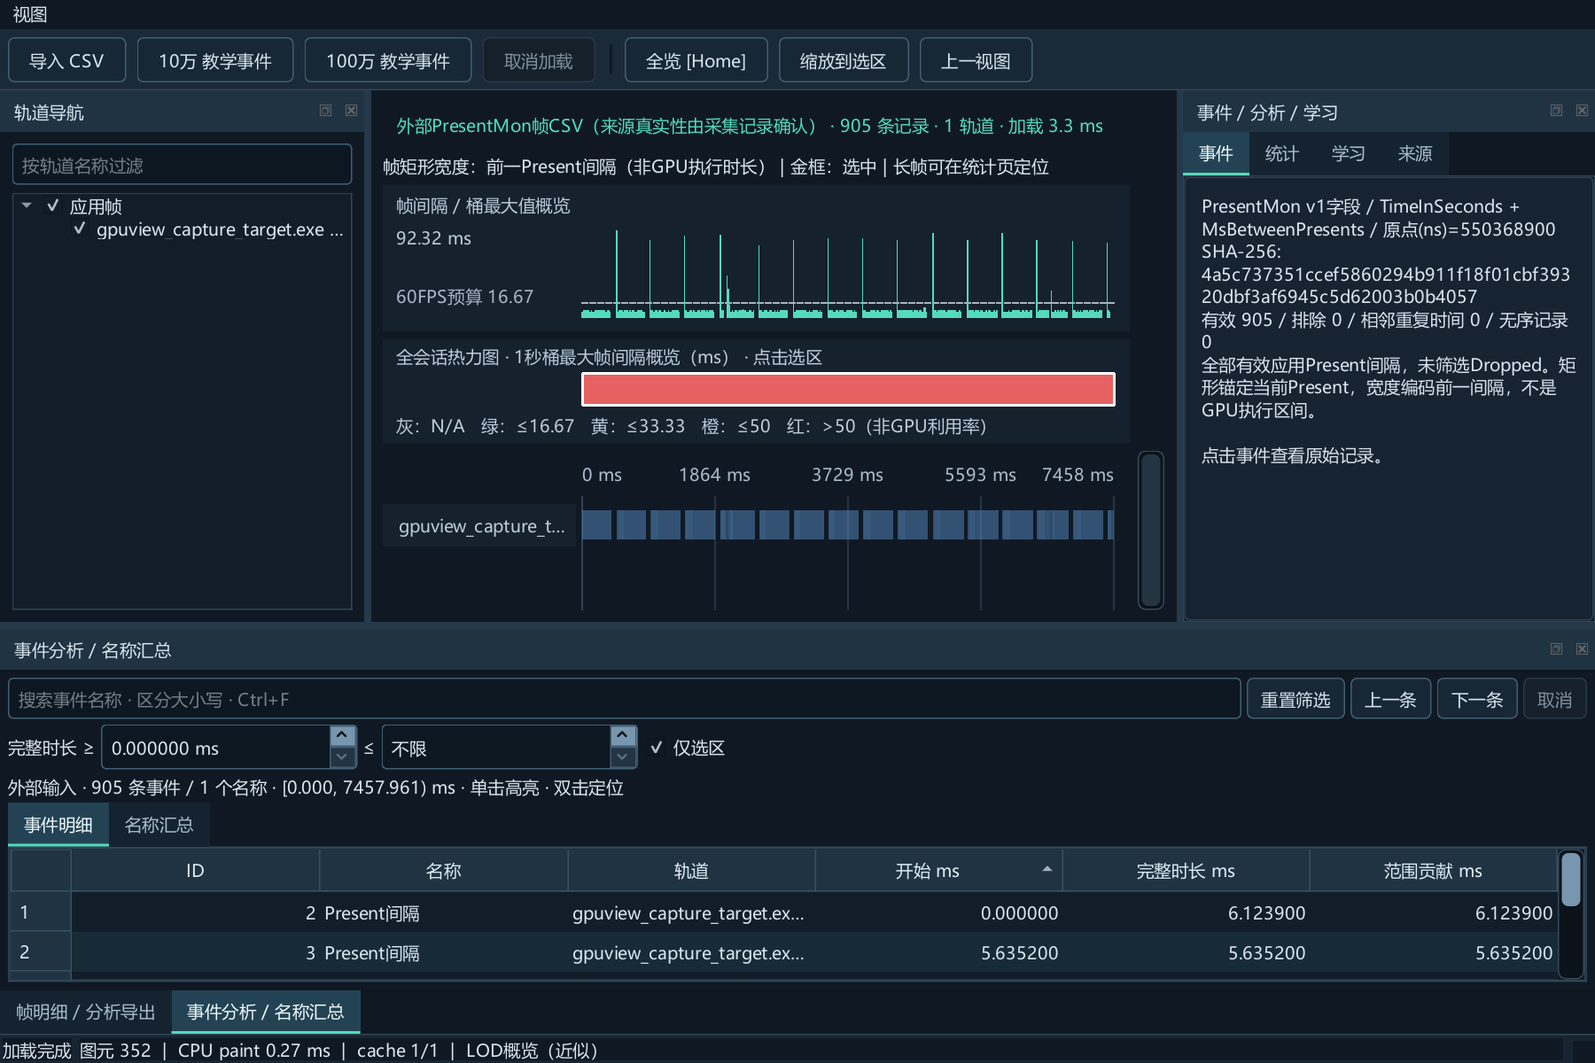
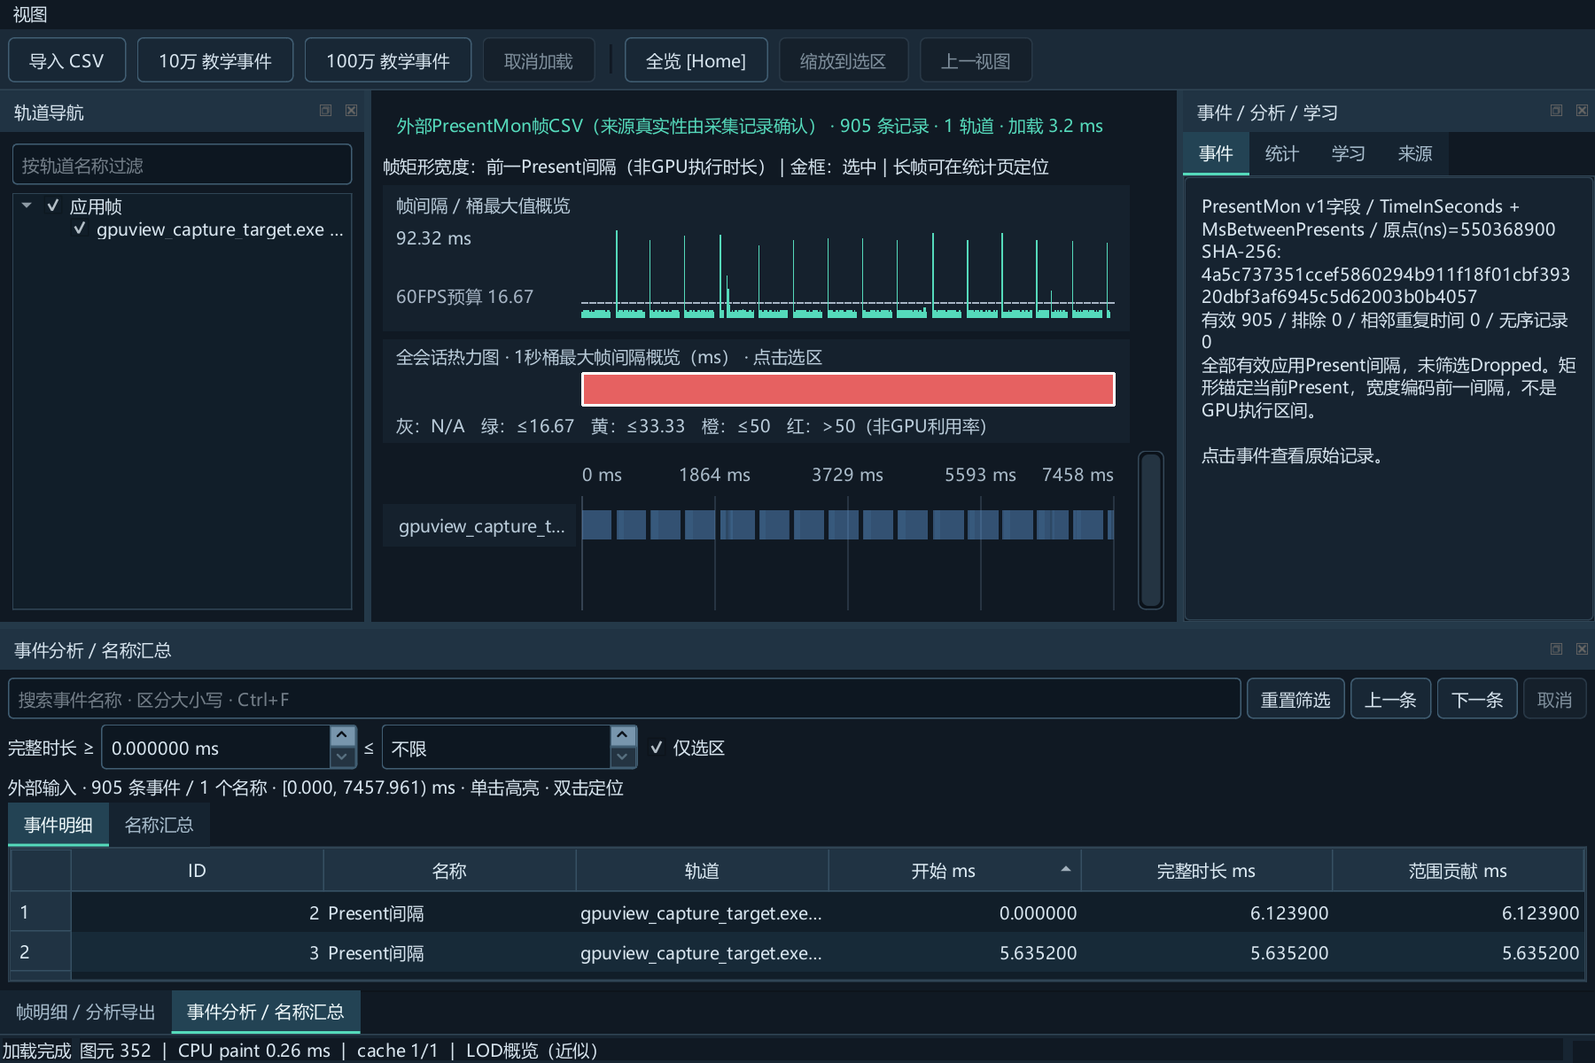
Record effective viewport changes and synchronize navigation actions

diff --git a/src/ui_widgets/timeline_widget.cpp b/src/ui_widgets/timeline_widget.cpp
@@ -23,17 +23,31 @@ void TimelineWidget::setSnapshot(Snapshot snapshot) {
     snapshot_ = std::move(snapshot);
     firstTrack_ = 0;
     selection_.reset(); selectedEvent_.reset(); history_.clear();
+    selecting_=panning_=panHistorySaved_=false; hover_={-1,-1};
     tracks_.clear();
     if (snapshot_) for (std::uint32_t i = 0; i < snapshot_->tracks.size(); ++i) tracks_.push_back(i);
     cache_.clear();
     syncTrackScroll(0);
-    resetViewport(); history_.clear();
+    // 换会话直接建立初始视口，不经过“记住上一视图”的用户导航路径。
+    if(snapshot_) { viewport_.reset(snapshot_->bounds); emit viewportChanged(viewport_.range().begin,viewport_.range().end); }
+    emit selectionCleared(); publishNavigation(); update();
 }
 /// 保存时间视口，重复范围不追加；最多64项避免历史无界增长。
-void TimelineWidget::rememberView() {
-    if (!history_.empty() && history_.back() == viewport_.range()) return;
+void TimelineWidget::rememberView(TimeRange previous) {
+    if (!history_.empty() && history_.back() == previous) return;
     if (history_.size() == 64) history_.erase(history_.begin());
-    history_.push_back(viewport_.range());
+    history_.push_back(previous);
+}
+/// 用相同视口夹紧规则判断缩放是否有效，不让工具栏对无效操作保持可点击。
+void TimelineWidget::publishNavigation() {
+    auto target=viewport_;
+    if(selection_) target.show(*selection_);
+    emit navigationChanged(bool(snapshot_),!history_.empty(),snapshot_ && selection_ && !(target.range()==viewport_.range()));
+}
+/// 鼠标释放和Esc使用同一收尾，避免拖回起点后按Esc仍留下空返回步骤。
+void TimelineWidget::finishPanGesture() {
+    if(panning_ && panHistorySaved_ && !history_.empty() && history_.back()==viewport_.range()) history_.pop_back();
+    panning_=panHistorySaved_=false;
 }
 /// 替换可见轨道ID映射并使缓存失效；过滤后行号不等于源轨道ID。
 void TimelineWidget::setTracks(std::vector<std::uint32_t> tracks) {
@@ -41,19 +55,21 @@ void TimelineWidget::setTracks(std::vector<std::uint32_t> tracks) {
     if (snapshot_) for (auto id : tracks) if (id < snapshot_->tracks.size() && std::find(tracks_.begin(), tracks_.end(), id) == tracks_.end()) tracks_.push_back(id);
     cache_.clear();
     selectedEvent_.reset(); selection_.reset(); emit selectionCleared();
-    syncTrackScroll(0); update();
+    syncTrackScroll(0); publishNavigation(); update();
 }
 /// 保存旧视图后显示指定范围，发布viewportChanged同步曲线。
 void TimelineWidget::showRange(TimeRange range) {
     if (!snapshot_) return;
-    rememberView(); viewport_.show(range); emit viewportChanged(viewport_.range().begin, viewport_.range().end); update();
+    const auto previous=viewport_.range(); viewport_.show(range);
+    if(previous==viewport_.range()) return;
+    rememberView(previous); emit viewportChanged(viewport_.range().begin, viewport_.range().end); publishNavigation(); update();
 }
 /// 存在有效框选时缩放至选区，通过showRange保存返回视图。
 void TimelineWidget::zoomSelection() { if (selection_) showRange(*selection_); }
 /// 恢复最近保存的时间视口；没有历史时保持当前范围。
 void TimelineWidget::previousView() {
     if (history_.empty()) return;
-    viewport_.show(history_.back()); history_.pop_back(); emit viewportChanged(viewport_.range().begin, viewport_.range().end); update();
+    viewport_.show(history_.back()); history_.pop_back(); emit viewportChanged(viewport_.range().begin, viewport_.range().end); publishNavigation(); update();
 }
 /// 高亮事件、滚到对应轨道并发布详情；不改变时间缩放。
 void TimelineWidget::selectEvent(const Event& event) {
@@ -70,7 +86,7 @@ void TimelineWidget::selectEvent(const Event& event) {
 void TimelineWidget::selectRange(TimeRange range) {
     if(!snapshot_ || range.end<=range.begin) return;
     selectedEvent_.reset(); selection_=range;
-    showRange(range); emit rangeSelected(range.begin,range.end); update();
+    showRange(range); emit rangeSelected(range.begin,range.end); publishNavigation(); update();
 }
 /// 选中事件并缩放到其附近，供明细激活和最长事件导航。
 void TimelineWidget::focusEvent(const Event& event) {
@@ -89,10 +105,13 @@ int TimelineWidget::trackAt(int y) const {
 void TimelineWidget::leaveEvent(QEvent* event) { hover_ = {-1, -1}; update(); QWidget::leaveEvent(event); }
 /// 恢复全会话并清除选择，发布范围变化同步其他图表和统计。
 void TimelineWidget::resetViewport() {
-    rememberView();
-    if (snapshot_) { viewport_.reset(snapshot_->bounds); emit viewportChanged(viewport_.range().begin, viewport_.range().end); }
+    if (snapshot_) {
+        const auto previous=viewport_.range(); viewport_.reset(snapshot_->bounds);
+        if(!(previous==viewport_.range())) rememberView(previous);
+        emit viewportChanged(viewport_.range().begin, viewport_.range().end);
+    }
     selection_.reset(); selectedEvent_.reset(); emit selectionCleared();
-    update();
+    publishNavigation(); update();
 }
 /// 设置过滤后列表的首个可见行，内部夹紧滚动范围并重绘。
 void TimelineWidget::setFirstTrack(int track) {
@@ -205,11 +224,13 @@ void TimelineWidget::wheelEvent(QWheelEvent* event) {
     if (event->position().x() < gutter) {
         setFirstTrack(int(firstTrack_) - event->angleDelta().y() / 120 * 3); event->accept(); return;
     }
-    rememberView();
+    const auto previous=viewport_.range();
     const double anchor = (event->position().x() - gutter) / std::max(1, width() - gutter - 12);
     viewport_.zoom(std::pow(1.25, event->angleDelta().y() / 120.0), anchor);
+    if(previous==viewport_.range()) { event->accept(); return; }
+    rememberView(previous);
     emit viewportChanged(viewport_.range().begin, viewport_.range().end);
-    update();
+    publishNavigation(); update();
     event->accept();
 }
 /// 根据按键和命中开始选择/平移或发布事件；输入坐标为逻辑像素。
@@ -218,9 +239,9 @@ void TimelineWidget::mousePressEvent(QMouseEvent* event) {
     setFocus();
     press_ = previous_ = event->position().toPoint();
     panning_ = event->button() == Qt::MiddleButton;
-    if (panning_) rememberView();
+    panHistorySaved_=false;
     selecting_ = event->button() == Qt::LeftButton;
-    if (selecting_) { selection_.reset(); selectedEvent_.reset(); emit selectionCleared(); }
+    if (selecting_) { selection_.reset(); selectedEvent_.reset(); emit selectionCleared(); publishNavigation(); }
 }
 /// 拖动时更新交互，空闲时更新悬停；不改写源事件。
 void TimelineWidget::mouseMoveEvent(QMouseEvent* event) {
@@ -239,9 +260,11 @@ void TimelineWidget::mouseMoveEvent(QMouseEvent* event) {
         update();
     }
     if (panning_) {
+        const auto before=viewport_.range();
         viewport_.pan(double(previous_.x() - point.x()) / std::max(1, width() - gutter - 12));
+        if(!panHistorySaved_ && !(before==viewport_.range())) { rememberView(before); panHistorySaved_=true; }
         emit viewportChanged(viewport_.range().begin, viewport_.range().end);
-        previous_ = point;
+        previous_ = point; publishNavigation();
         update();
     } else if (selecting_) {
         const auto a = timeAt(press_.x()), b = timeAt(point.x());
@@ -259,8 +282,8 @@ void TimelineWidget::mouseReleaseEvent(QMouseEvent* event) {
         } else if (selection_ && selection_->end > selection_->begin)
             emit rangeSelected(selection_->begin, selection_->end);
     }
-    panning_ = selecting_ = false;
-    update();
+    finishPanGesture(); selecting_=false;
+    publishNavigation(); update();
 }
 /// 按点击时间和轨道查询原始事件，不把LOD聚合图元当作事件身份。
 void TimelineWidget::pick(const QPoint& point) {
@@ -287,7 +310,7 @@ void TimelineWidget::publishEvent(const Event& e) {
 /// 处理Home全览和Esc清除，其余按键交给QWidget。
 void TimelineWidget::keyPressEvent(QKeyEvent* event) {
     if (event->key() == Qt::Key_Home) resetViewport();
-    else if (event->key() == Qt::Key_Escape) { selection_.reset(); selectedEvent_.reset(); selecting_ = panning_ = false; emit selectionCleared(); update(); }
+    else if (event->key() == Qt::Key_Escape) { finishPanGesture(); selection_.reset(); selectedEvent_.reset(); selecting_=false; emit selectionCleared(); publishNavigation(); update(); }
     else QWidget::keyPressEvent(event);
 }
 }

diff --git a/tests/ui/ui_tests.cpp b/tests/ui/ui_tests.cpp
@@ -36,6 +36,49 @@ class UiTests : public QObject {
 private slots:
     /// 使用实际应用的中文字体和样式，避免默认测试字体掩盖窗口最小尺寸问题。
     void initTestCase() { configureApplicationTheme(*qApp); }
+    /// 导航动作只反映实际可执行操作；全览边界、重复范围和中键点击不制造虚假返回历史。
+    void navigationActionsFollowEffectiveChanges() {
+        MainWindow window; window.show();
+        auto* overview=window.findChild<QAction*>("overviewAction");
+        auto* back=window.findChild<QAction*>("previousViewAction");
+        auto* zoom=window.findChild<QAction*>("zoomSelectionAction");
+        QVERIFY(!overview->isEnabled()); QVERIFY(!back->isEnabled()); QVERIFY(!zoom->isEnabled());
+        window.controller()->requestSynthetic(10000); QTRY_VERIFY_WITH_TIMEOUT(overview->isEnabled(),5000);
+        auto* timeline=window.timeline(); const auto full=timeline->visibleRange();
+        timeline->showRange(full); timeline->resetViewport(); timeline->resetViewport();
+        QTest::mouseClick(timeline,Qt::MiddleButton,Qt::NoModifier,QPoint(400,70));
+        QWheelEvent outward(QPointF(400,70),QPointF(400,70),QPoint(),QPoint(0,-120),Qt::NoButton,Qt::NoModifier,Qt::NoScrollPhase,false);
+        QApplication::sendEvent(timeline,&outward); QVERIFY(!back->isEnabled());
+        const TimeRange selected{full.end/4,full.end/2}; timeline->selectRange(selected);
+        QVERIFY(back->isEnabled()); QVERIFY(!zoom->isEnabled());
+        back->trigger(); QVERIFY(timeline->visibleRange()==full); QVERIFY(!back->isEnabled()); QVERIFY(zoom->isEnabled());
+        zoom->trigger(); timeline->zoomSelection(); back->trigger();
+        QVERIFY(timeline->visibleRange()==full); QVERIFY(!back->isEnabled());
+        QTest::keyClick(timeline,Qt::Key_Escape); QVERIFY(!zoom->isEnabled());
+    }
+    /// 多次移动的一次平移只占一条历史，拖回原点和换数据后的旧鼠标释放不污染导航。
+    void panGestureHistoryAndSnapshotReset() {
+        TimelineWidget timeline; timeline.resize(1000,360); timeline.show();
+        auto source=generateTrace(10000,1); timeline.setSnapshot(source);
+        const auto full=timeline.visibleRange(); timeline.showRange({full.end/4,full.end/2});
+        const auto before=timeline.visibleRange();
+        QTest::mousePress(&timeline,Qt::MiddleButton,Qt::NoModifier,QPoint(500,70));
+        QTest::mouseMove(&timeline,QPoint(480,70)); QTest::mouseMove(&timeline,QPoint(460,70));
+        QTest::mouseRelease(&timeline,Qt::MiddleButton,Qt::NoModifier,QPoint(460,70));
+        QVERIFY(!(timeline.visibleRange()==before)); timeline.previousView(); QVERIFY(timeline.visibleRange()==before);
+        QTest::mousePress(&timeline,Qt::MiddleButton,Qt::NoModifier,QPoint(500,70));
+        QTest::mouseMove(&timeline,QPoint(480,70)); QTest::mouseMove(&timeline,QPoint(500,70));
+        QTest::keyClick(&timeline,Qt::Key_Escape);
+        QTest::mouseRelease(&timeline,Qt::MiddleButton,Qt::NoModifier,QPoint(500,70));
+        timeline.previousView(); QVERIFY(timeline.visibleRange()==full);
+        QSignalSpy selected(&timeline,&TimelineWidget::rangeSelected);
+        QSignalSpy navigation(&timeline,&TimelineWidget::navigationChanged);
+        QTest::mousePress(&timeline,Qt::LeftButton,Qt::NoModifier,QPoint(400,70));
+        timeline.setSnapshot(generateTrace(10000,2));
+        QTest::mouseMove(&timeline,QPoint(600,70)); QTest::mouseRelease(&timeline,Qt::LeftButton,Qt::NoModifier,QPoint(600,70));
+        QCOMPARE(selected.count(),0);
+        for(const auto& state:navigation) QVERIFY(!state.at(1).toBool());
+    }
     /// 较矮统计区域无需滚动即可看到P99；空结果不能保留上次的有效值，Trace不能冒充FPS。
     void compactStatisticsPrioritizeMetricsAndClearEmptyValues() {
         Statistics stats; stats.count=905; stats.meanMs=8.192; stats.p95Ms=7.735; stats.p99Ms=82.945;

diff --git a/src/ui_widgets/main_window.cpp b/src/ui_widgets/main_window.cpp
@@ -46,11 +46,13 @@ MainWindow::MainWindow(QWidget* parent) : QMainWindow(parent) {
     auto* cancel = toolbar->addAction(QStringLiteral("取消加载"), &controller_, &SessionController::cancel); cancel->setEnabled(false);
     toolbar->addSeparator();
     // 复用时间轴统一全览入口，保持按钮与Home按键行为一致。
-    toolbar->addAction(QStringLiteral("全览 [Home]"), this, [this] { timeline_->resetViewport(); });
+    auto* overviewAction=toolbar->addAction(QStringLiteral("全览 [Home]"), this, [this] { timeline_->resetViewport(); });
     // 缩放已有选择，不另建一套范围计算逻辑。
-    toolbar->addAction(QStringLiteral("缩放到选区"), this, [this] { timeline_->zoomSelection(); });
+    auto* zoomAction=toolbar->addAction(QStringLiteral("缩放到选区"), this, [this] { timeline_->zoomSelection(); });
     // 调用有限视图历史，恢复上一次时间范围。
-    toolbar->addAction(QStringLiteral("上一视图"), this, [this] { timeline_->previousView(); });
+    auto* backAction=toolbar->addAction(QStringLiteral("上一视图"), this, [this] { timeline_->previousView(); });
+    overviewAction->setObjectName("overviewAction"); zoomAction->setObjectName("zoomSelectionAction"); backAction->setObjectName("previousViewAction");
+    overviewAction->setEnabled(false); zoomAction->setEnabled(false); backAction->setEnabled(false);
     auto* progress = new QProgressBar; progress->setObjectName("loadProgress"); progress->setMaximumWidth(100);
     progress->setRange(0,100); progress->setValue(0); auto* progressAction=toolbar->addWidget(progress); progressAction->setVisible(false);
     auto* central = new QWidget; auto* layout = new QVBoxLayout(central);
@@ -63,6 +65,10 @@ MainWindow::MainWindow(QWidget* parent) : QMainWindow(parent) {
     auto* plotsLayout = new QGridLayout; plotsLayout->addWidget(frameChart,0,0);
     auto* heatmap = new FrameHeatmap; heatmap->hide(); plotsLayout->addWidget(heatmap,1,0);
     timeline_ = new TimelineWidget;
+    // 按真实导航状态启用动作，加载/边界缩放/重复全览不会伪造一条返回历史。
+    connect(timeline_,&TimelineWidget::navigationChanged,this,[overviewAction,zoomAction,backAction](bool loaded,bool back,bool zoom) {
+        overviewAction->setEnabled(loaded); backAction->setEnabled(back); zoomAction->setEnabled(zoom);
+    });
     // 将热力图选择的纳秒范围交给时间轴，统一驱动选区和统计联动。
     connect(heatmap,&FrameHeatmap::rangePicked,this,[this](qint64 a,qint64 b) { timeline_->selectRange({a,b}); });
     // 只同步帧曲线视口，不重复解析数据。

diff --git a/src/ui_widgets/timeline_widget.h b/src/ui_widgets/timeline_widget.h
@@ -56,6 +56,8 @@ signals:
     void selectionCleared();
     /// 发布首行、最大首行和页步长，使外部滚动条与可见轨道一致。
     void trackScrollChanged(int firstTrack, int maximum, int pageStep);
+    /// 实际导航状态，供工具栏同步可用性；不以鼠标是否按下推测历史是否存在。
+    void navigationChanged(bool hasData,bool canGoBack,bool canZoomSelection);
 protected:
     /// 清除悬停并调用基类，避免鼠标离开后残留高亮。
     void leaveEvent(QEvent*) override;
@@ -81,7 +83,11 @@ private:
     /// 把源事件与来源语义转为详情并发布，避免误把帧宽度当Kernel时长。
     void publishEvent(const Event& event);
     /// 保存时间视口，重复范围不追加；最多64项避免历史无界增长。
-    void rememberView();
+    void rememberView(TimeRange previous);
+    /// 在交互完成状态变更后发布导航能力，选区已等于视口时禁用重复缩放。
+    void publishNavigation();
+    /// 结束平移手势，若回到起点则撤掉本手势产生的无效历史；不撤销有效位移。
+    void finishPanGesture();
     /// 把纵坐标映射为源轨道ID；超出绘图区或显示映射返回-1。
     int trackAt(int y) const;
     /// 以gutter为原点把横坐标映射为视口内纳秒时刻。
@@ -118,6 +124,8 @@ private:
     QPoint previous_;
     /// 是否正用中键拖动平移时间轴。
     bool panning_ = false;
+    /// 一次中键拖动只在首次实际位移时保存历史，点击或边界无效拖动不产生记录。
+    bool panHistorySaved_ = false;
     /// 是否正用左键拖动选择时间范围。
     bool selecting_ = false;
     /// 用户框选的半开纳秒范围，与单事件选择分开保存。

diff --git a/docs/07-interview/UI_REFINEMENT.md b/docs/07-interview/UI_REFINEMENT.md
@@ -81,3 +81,17 @@
 验证：compactStatisticsPrioritizeMetricsAndClearEmptyValues使用实际字体和290×120区域，以QTextBrowser.cursorRect验证P99数值完整落在初始视口；检查空状态和Trace不显示FPS。真实905帧导入用例进一步过滤全部轨道，确认列表清空、定位禁用，再恢复轨道验证P99和定位恢复。Debug/Release共65个实际用例通过，帧分析截图已更新检查。
 
 取舍：富文本只描述固定数量指标，不为每个事件创建控件；与Qt Quick学习阶段可以对照排版方式。这里改善的是信息查找成本，没有声称计算提速；更大的系统字体和完整屏幕阅读器体验仍需另行验证。
+
+## 第七轮：有效导航历史和工具栏状态
+
+面试问题：为什么点击“上一视图”偶尔看起来什么都没发生？鼠标事件到了就该记一条历史吗？
+
+复现：全览时再向外缩放，或不移动地按一下中键，以前会先记住当前范围。随后返回的是同一个范围。工具栏也没有反映是否存在历史、是否已有有效选区。
+
+解决思路：[TimelineWidget](../../src/ui_widgets/timeline_widget.cpp)先通过TimeViewport夹紧请求范围，再比较实际结果；只有发生变化才保存旧范围，重复showRange与边界滚轮不追加历史。平移在首次实际位移记录一次，回到起点后释放或按Esc由finishPanGesture移除无效记录。历史继续限定64项，一次拖动不是每次mouseMove都记录。
+
+navigationChanged只描述真实导航能力，[MainWindow](../../src/ui_widgets/main_window.cpp)据此更新三个动作：无数据不能全览、无历史不能返回、选区已经等于视口时无需重复缩放。换快照直接建立初始视口，清理历史和拖动状态，不把旧会话视口短暂发布成可返回状态。
+
+验证：navigationActionsFollowEffectiveChanges覆盖初始禁用、重复全览/相同范围、中键点击、边界缩放、选区缩放及返回；panGestureHistoryAndSnapshotReset覆盖多次移动只返回一次、拖回原点后Esc、按住鼠标换数据后迟到释放。Debug/Release共67个实际用例通过。
+
+边界：历史仅保存时间视口，不是完整会话撤销栈，不恢复轨道过滤或统计条件。本轮没有以事件数量或测试数量宣称性能提高；边界滚轮只是不再发出无效viewportChanged。

diff --git a/README.md b/README.md
@@ -28,6 +28,7 @@
 - 表格选中的轨道已可见时保持滚动位置，越界才最小滚动；“视图 → 恢复默认面板布局”不改数据和搜索条件，加载进度只在忙时出现。
 - 真实帧工作区适配1200×800逻辑像素；时间刻度按字体宽度减少数量，避免重叠。已验证100%/150%离屏布局，[紧凑窗口截图](assets/screenshots/compact-150.png)。
 - 统计侧栏优先显示数量/均值/P95/P99与当前范围类型，详细口径和分布可滚动阅读；无有效样本时清空旧值并显示恢复提示。
+- 视图历史只记录实际范围变化，中键点击/边界缩放/重复全览不产生空返回步骤；导航按钮与有效历史/选区同步，换数据中断旧鼠标手势。
 - 紧凑事件结构与每轨道区间索引，对照朴素扫描验证正确性。
 - QWidget/QPainter自绘、轨道裁剪、密集视口概览LOD、精确点击拾取。
 - 时间轴滚轮锚点缩放、名称区滚轮上下滚动、中键平移、框选、Home全览、Esc清除。
@@ -135,4 +136,4 @@ core不依赖Qt；UI不解析文件，不管理worker内部数据。不为每个
 
 帧明细新增证据：[百万帧测量](benchmarks/reports/FRAME_ANALYSIS.md) · [问题、代码与练习](docs/07-interview/FRAME_ANALYSIS_WALKTHROUGH.md)。Debug/Release均通过52个实际用例（Core 42 + UI 10，不含初始化和清理）。
 
-2026-10-01：Debug/Release均通过65个实际用例（Core 47 + UI 18）。[同机排序对照](benchmarks/reports/EVENT_SORT.md)：百万事件的名称汇总排序中位数200.30→7.84ms；事件时长排序本轮未改善。仅算法计时，不包含输入防抖、GUI排队或绘制；[面试讲解](docs/07-interview/UI_REFINEMENT.md)说明缓存、内存和布局取舍。
+2026-10-01：Debug/Release均通过67个实际用例（Core 47 + UI 20）。[同机排序对照](benchmarks/reports/EVENT_SORT.md)：百万事件的名称汇总排序中位数200.30→7.84ms；事件时长排序本轮未改善。仅算法计时，不包含输入防抖、GUI排队或绘制；[面试讲解](docs/07-interview/UI_REFINEMENT.md)说明缓存、内存和布局取舍。

diff --git a/docs/00-review/STATUS.md b/docs/00-review/STATUS.md
@@ -15,6 +15,7 @@
 - 第五轮完成：真实帧模式最小高度从980降至798，1200×800窗口不再被撑高；保留两行搜索结果、至少两条时间轨道和图表对齐。时间标签按实际字体宽度避让，新增独立time_axis模块。
 - Debug/Release各64个实际用例（Core47+UI17）通过；应用/测试使用同一中文字体与主题。100%和150%离屏紧凑窗口已截图检查，尚未代表任意物理屏幕或多显示器适配。
 - 第六轮完成：统计摘要独立为statistics_view模块，以紧凑两列优先展示数量/均值/P95/P99，范围/口径/分布保留在滚动详情；空结果明确显示N/A及恢复建议。新增P99首屏可见与空值格式回归，扩展真实导入后过滤/恢复的完整UI验证；Debug/Release65个实际用例（Core47+UI18）。
+- 第七轮完成：仅实际视口变化写历史，一次平移保持一次返回操作，拖回起点的释放/Esc去掉空记录；工具栏按真实加载/历史/选区启用。换快照中断旧手势，不发布旧会话临时历史。新增两项导航/平移/换数据回归，Debug/Release共67个实际用例（Core47+UI20）。
 
 ## v0.4基础：事件搜索、名称汇总与时间轴联动
 
